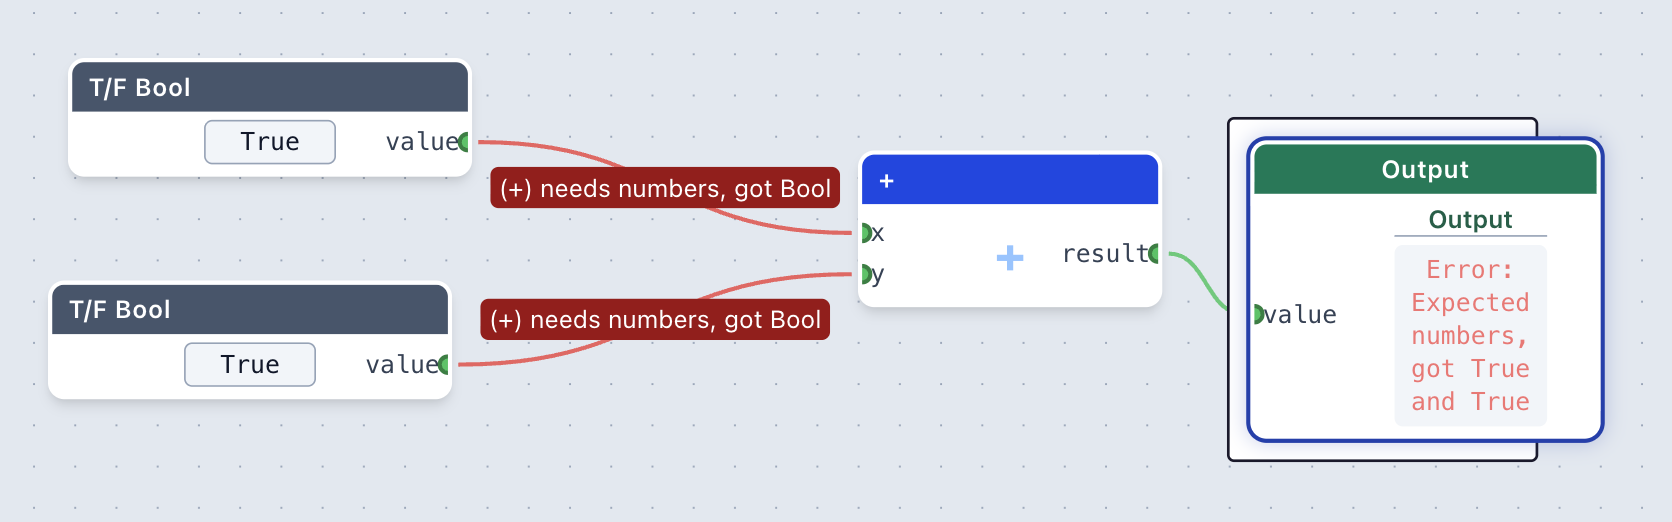
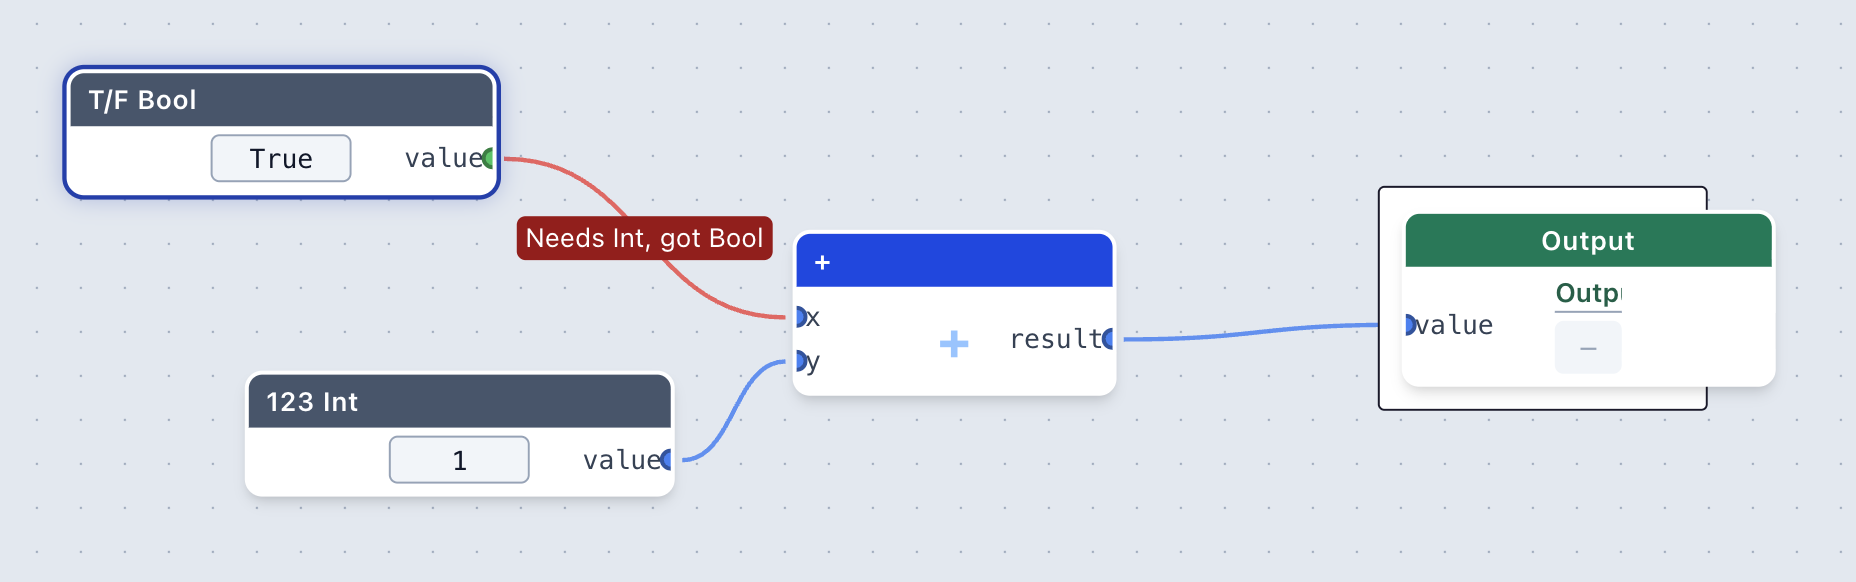
new screenshot

Changed region(s): [[0.0311, 0.092, 0.9641, 0.8889]]

diff --git a/_posts/2026-10-23-liberator.md b/_posts/2026-10-23-liberator.md
@@ -1,7 +1,7 @@
 ---       
 
 layout: post       
-title: "Wiring up functions: Liberator, vibe coding and a room full of maths teachers"       
+title: "Wiring up functions: Liberator, vibe coding and a room of maths teachers"       
 date: "2026-10-24 12:00:00 +0000"
 author: Miles Berry
 permalink: /2026/10/liberator/
@@ -32,7 +32,7 @@ That, for me, is the real interest of vibe coding. Liberator is a niche tool: a 
 
 A few things struck me. The first is that domain knowledge matters more, not less. The AI could implement anything I could describe, but knowing *what* to describe, what a sixth-former needs to see and where Haskell's ideas should show through rather than be smoothed over, was entirely on my side of the table. The second is that the AI is a good tester of its own work when asked. Checking every built-in example's exported Haskell in GHC turned up a bug I'd never have spotted, where one example produced code that ran forever. The third is that saying no is part of the job. When the AI suggested moving function definitions off the canvas into a palette, as Snap! does, I declined: it would have moved Liberator away from Haskell, where a definition is something you can see. The tool is only as good as the judgements of the person steering it.
 
-## BCME10: the power of a room full of teachers
+## BCME10: the power of a room of teachers
 
 The real test came at BCME10, the British Congress of Mathematics Education, where I ran a session with maths teachers. They built programs, chained function machines, and tried writing recursive functions. They were generous, sharp and honest. Within minutes they'd found the rough edges I'd stopped noticing:
 

diff --git a/presentations.md b/presentations.md
@@ -11,7 +11,7 @@ guid: http://milesberry.net/?page_id=718
 
 *23 October 2026* [Liberator: Visual functional programming as a bridge between secondary mathematics and computer science](https://drive.google.com/drive/folders/1LgsONxCLT6G6KYnGprl522Z2uZtopkF8?usp=sharing). BCME10, University of Nottingham.  
 
-*16 October 2026* [Academic misconduct and academic integrity](https://docs.google.com/presentation/d/1jryY0djTWzO9ml4xK_sJ6CQ98XWX53Vk86Xoe3sXJm4/edit?usp=sharing). Practical Pedgogies, International School of Toulouse.  
+*16 October 2026* [Academic misconduct and academic integrity](https://docs.google.com/presentation/d/1jryY0djTWzO9ml4xK_sJ6CQ98XWX53Vk86Xoe3sXJm4/edit?usp=sharing). Practical Pedagogies, International School of Toulouse.  
 
 *30 September 2026* [Vibe coding and what it means for computing education](https://www.youtube.com/watch?v=7wnuBuj8owA). Keynote presentation for 4th Tech Summit on Artificial Intelligence & Robotics, Paris. 
 
